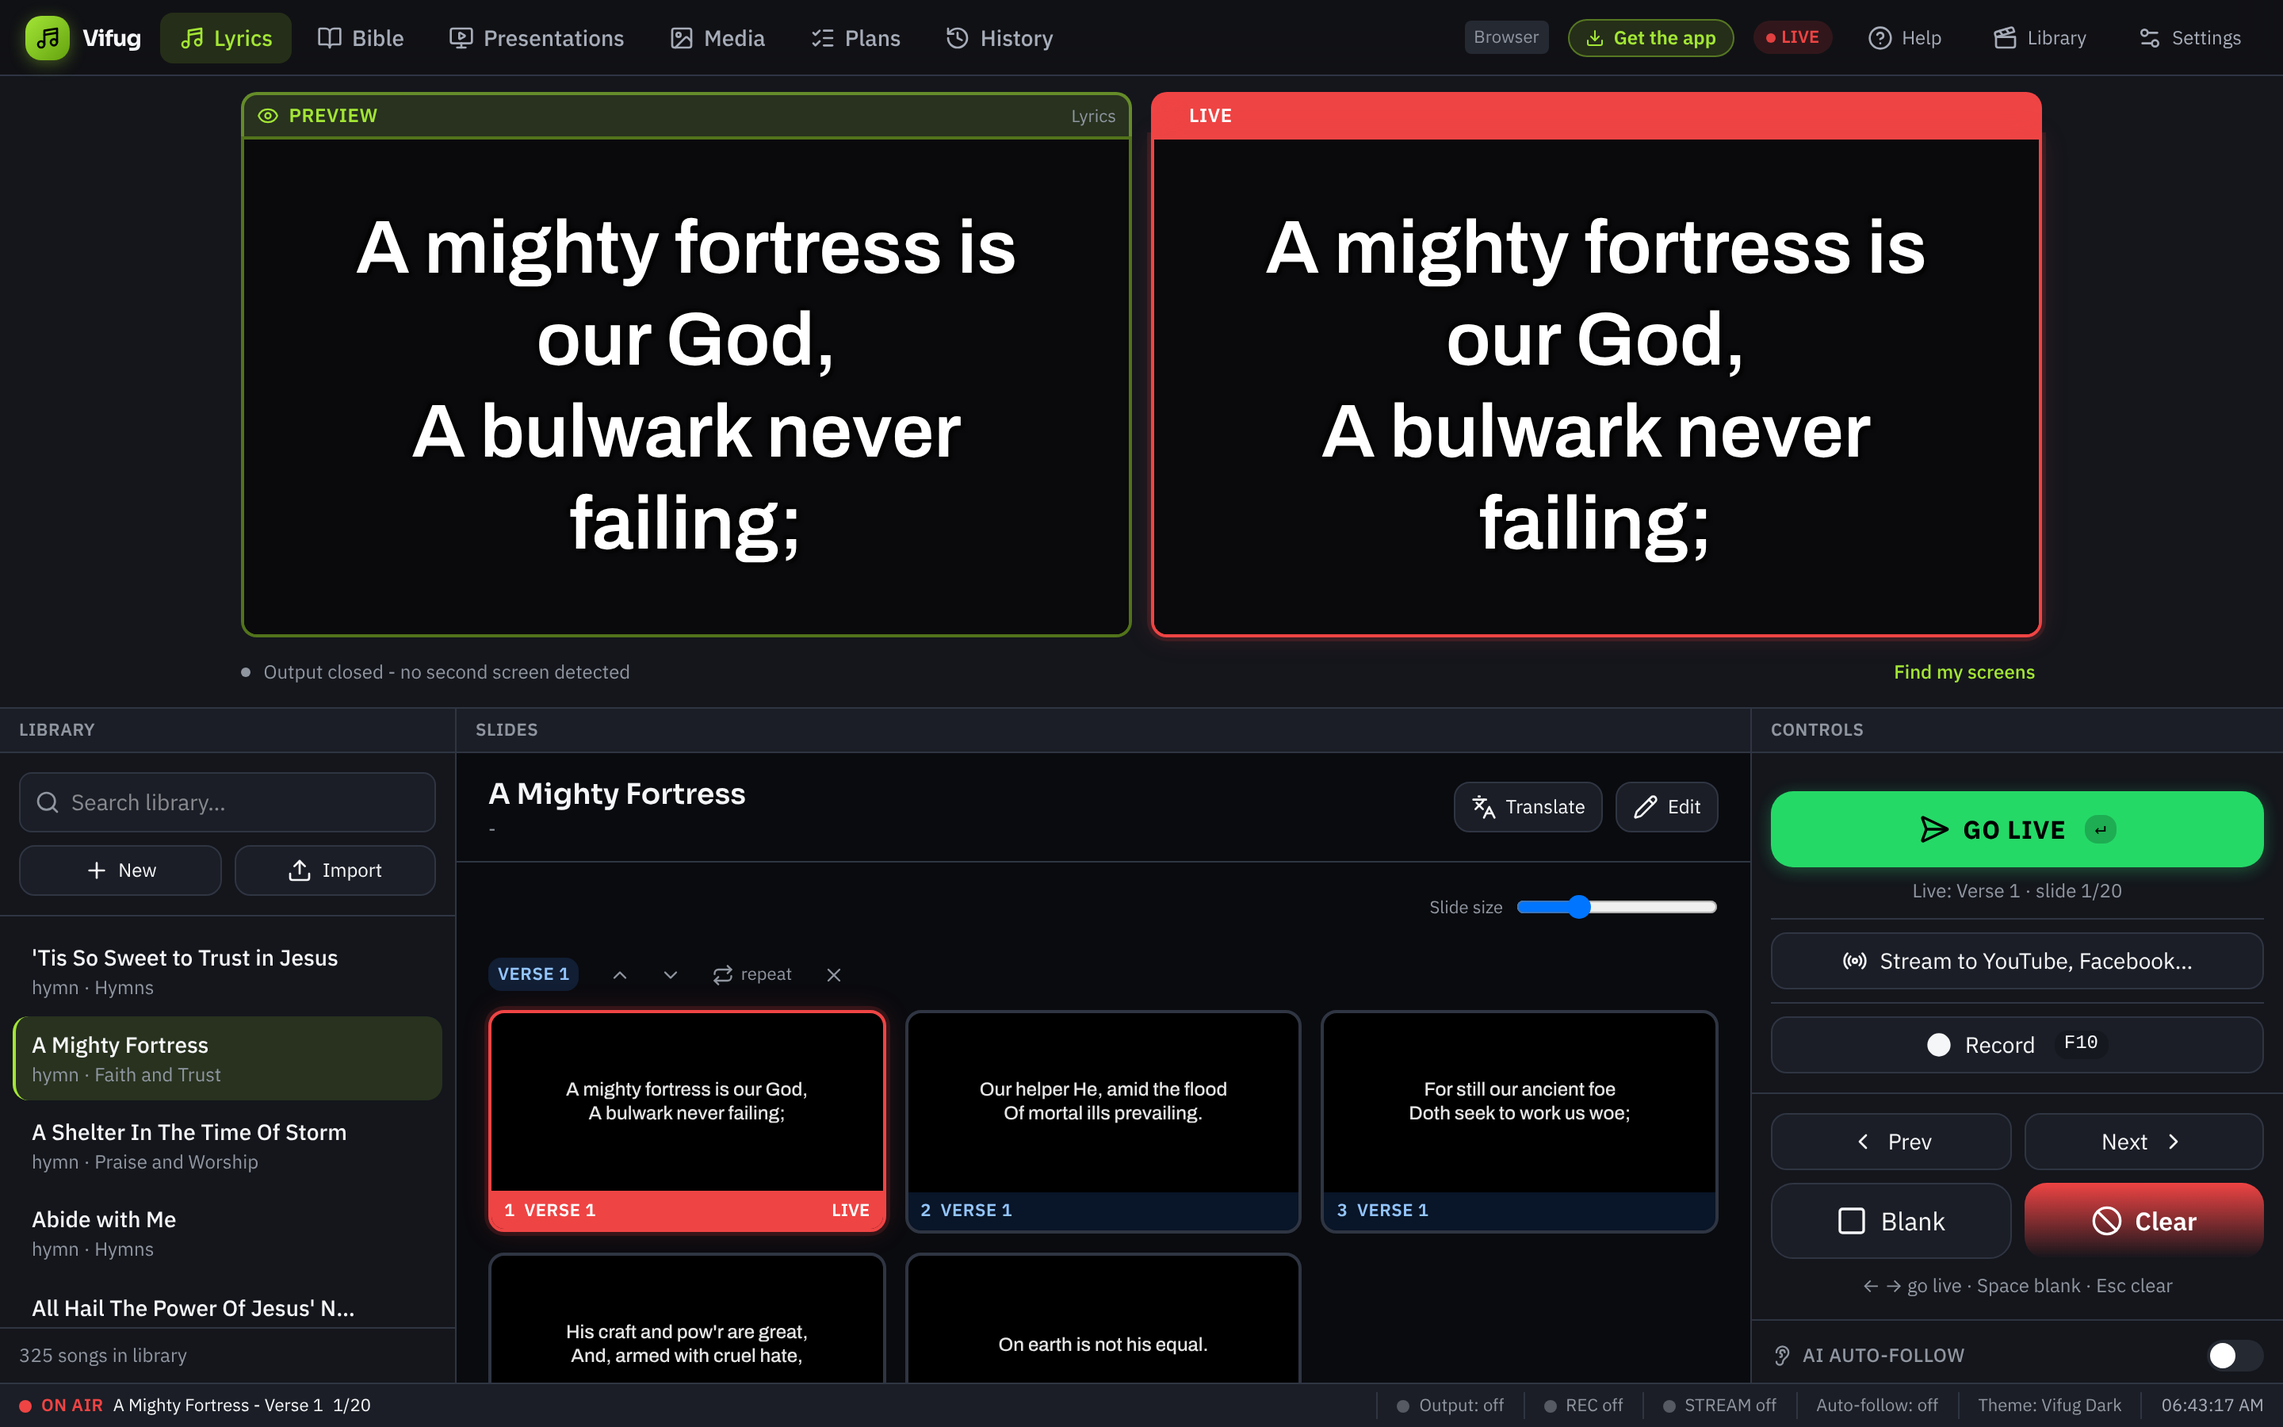
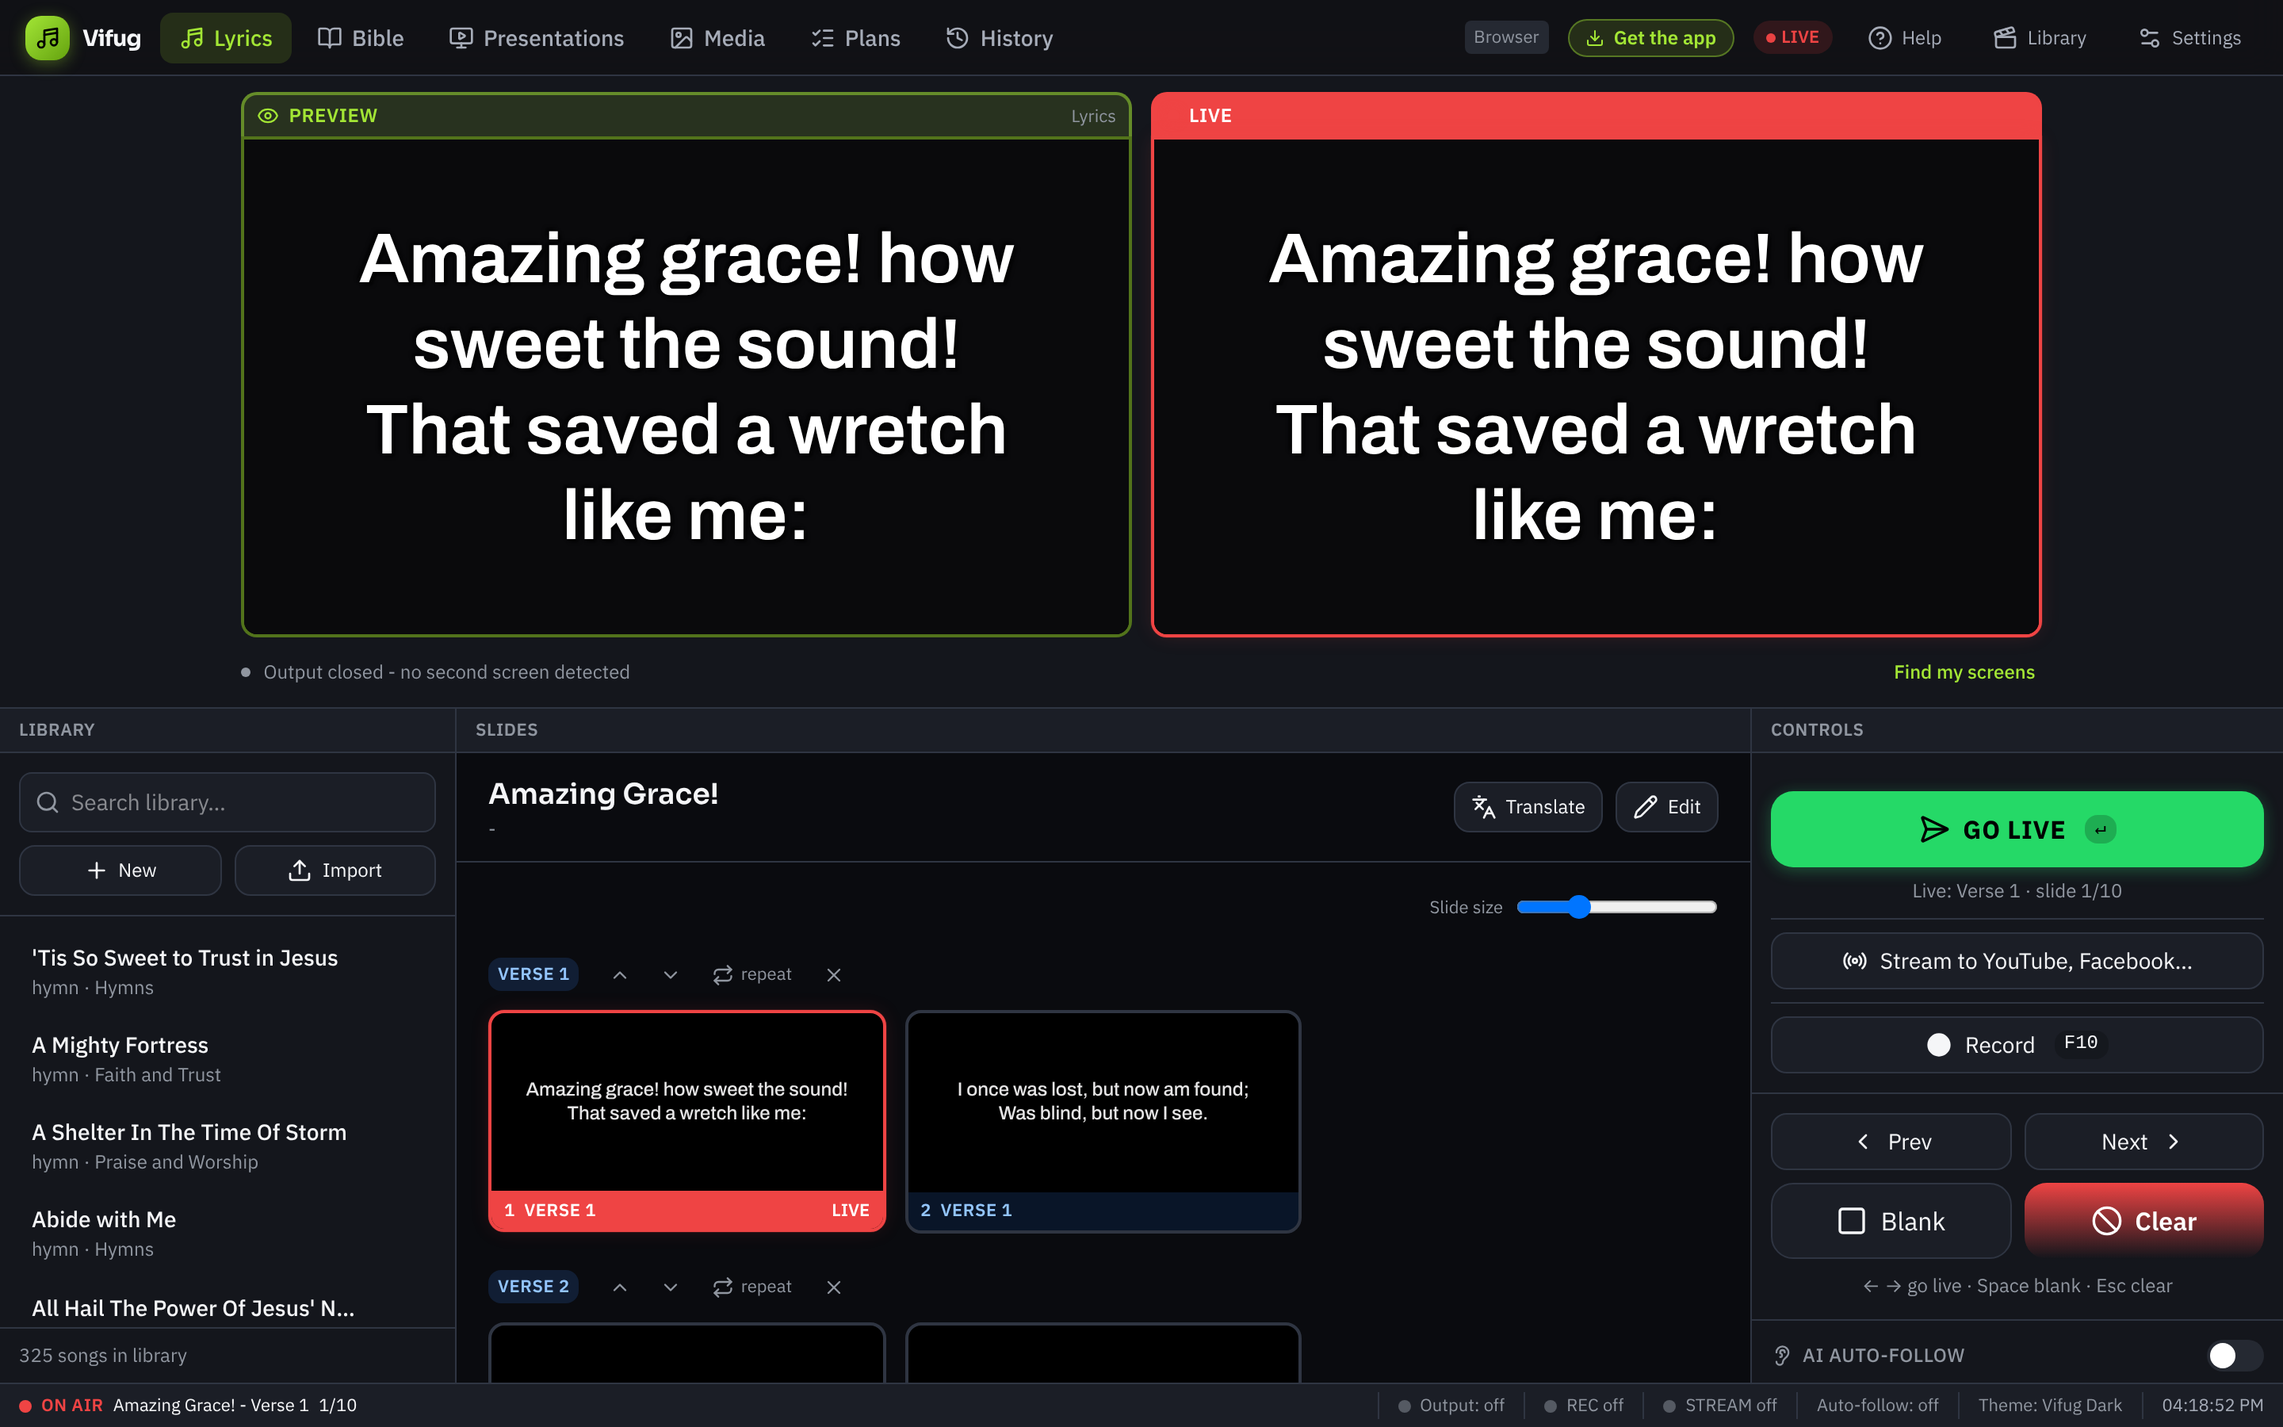
Put the Broadcast layout on the website, and retake the hero shot
A Google AI Overview of Vifug listed four features and described it as
"offline-first church presentation software". Nothing there is wrong, but
it is built from vifug.com, and the site had no mention at all of the
second operator layout that shipped in 1.34.0 - so no summary of Vifug
could include it.

The landing page's tour now shows both shapes, one above the other: the
same song, the same verse live, once in the Vifug layout and once in the
Broadcast one, each with a caption saying which is which. A reader sees
the difference rather than reading a description of it.

The hero screenshot was four releases old, so it was retaken on the
current version. Two things had to be got right that the first attempt
got wrong: the search box has to be cleared after picking the song, or
the shot shows a one-row library and sells nothing; and the slide has to
be clicked by its words, because in the Broadcast layout the Preview pane
is itself a 16:9 element and matched first, which produced a screenshot
with both screens blank and GO LIVE still saying "nothing live yet".

Also updated where machines read rather than people: the layout is now in
the SoftwareApplication featureList, in llms.txt, and as an FAQ entry -
"Can I lay the operator screen out like OBS?", which is the question
somebody would actually type - carried in both the visible page and its
FAQPage structured data, since structured data that is not on the page is
[…]

diff --git a/docs/index.html b/docs/index.html
@@ -58,12 +58,13 @@
     "@type": "CreativeWork",
     "url": "https://vifug.com/guide.html"
   },
-  "softwareVersion": "latest",
+  "softwareVersion": "1.35.0",
   "image": "https://vifug.com/og-image.png",
   "screenshot": "https://vifug.com/img/app-slide-grid.png",
   "keywords": "church presentation software, worship lyrics projection, song lyrics projector software, Bible verse projection, lower thirds, live streaming software for churches, free ProPresenter alternative, free EasyWorship alternative, NDI lyrics output, OBS lyrics overlay",
   "featureList": [
     "Song lyrics library with a Preview to Live workflow",
+    "Two operator screen layouts: a classic three-column one and a Broadcast one laid out like a streaming desk",
     "Offline Bible in 31 English versions plus Yoruba, Hausa, Igbo, Twi and Swahili",
     "Presentations: build slides or import PowerPoint and PDF",
     "Theme designer with text box, fonts, motion, pictures, video and camera layers",
@@ -113,6 +114,11 @@
       "@type": "Question",
       "name": "What is Vifug?",
       "acceptedAnswer": { "@type": "Answer", "text": "Vifug is free presentation software for churches, events, schools and studios. It puts song lyrics, Bible verses, slides, pictures and video on your projector or TV, with a Preview to Live workflow so nothing appears until you send it. It also handles cameras, lower thirds and speaker name bars, and can stream the result to YouTube, Facebook and Twitch. It runs on Windows, macOS and Linux and works without internet." }
+    },
+    {
+      "@type": "Question",
+      "name": "Can I lay the operator screen out like OBS?",
+      "acceptedAnswer": { "@type": "Answer", "text": "Yes. Settings, Layout offers two shapes for the operator's own screen. Vifug, the original, puts the words in the middle with preview and live in a rail down the right. Broadcast puts preview and live across the top at full size and turns the list, the slides and the controls into docks underneath, the way OBS and other streaming desks are laid out. Nothing is missing from either one and the screen changes as you click, with no restart. The choice is remembered per device, so the laptop at the desk and a phone at the back can differ. This is about the operator's screen only - it changes nothing the congregation or the stream sees." }
     },
     {
       "@type": "Question",
@@ -584,6 +590,8 @@
   .shot-bar span { margin-left: 10px; font-size: 12px; color: var(--faint); }
   .shot img { display: block; width: 100%; height: auto; }
   .tour-shot { margin-top: 44px; }
+  .shot-cap { margin-top: 10px; font-size: 13.5px; color: var(--faint); text-align: center; }
+  .shot-cap b { color: var(--dim); font-weight: 600; }
   .tour-points { display: grid; grid-template-columns: repeat(3, 1fr); gap: 16px; margin-top: 22px; }
   .tour-points div { border: 1px solid var(--line); border-radius: 14px; padding: 18px; background: var(--raise); }
   .tour-points b { display: block; font-family: var(--font-display); font-size: 15px; margin-bottom: 5px; color: var(--paper); }
@@ -737,13 +745,20 @@
     <div class="band-head center">
       <span class="eyebrow" data-aos="fade-up">See it in action</span>
       <h2 data-aos="fade-up" data-aos-delay="60">Your whole service in one window</h2>
-      <p data-aos="fade-up" data-aos-delay="120">Songs on the left, slides in the middle, Preview and Live on the right. Click a slide to cue it, press Enter to send it to the room.</p>
+      <p data-aos="fade-up" data-aos-delay="120">Click a slide to cue it, press Enter to send it to the room. Lay the screen out whichever way suits you - the classic three columns, or a broadcast desk with the two screens across the top.</p>
     </div>
     <div class="tour-shot">
       <div class="shot" data-aos="fade-up">
         <div class="shot-bar"><i></i><i></i><i></i><span>Vifug - Amazing Grace</span></div>
         <img src="img/app-slide-grid.png" width="2880" height="1800" alt="The Vifug operator window: song library, slide thumbnails with coloured label bars, Preview and Live pictures, and a status bar along the bottom" loading="lazy" />
       </div>
+      <p class="shot-cap"><b>The Vifug layout.</b> Words in the middle, Preview and Live down the right.</p>
+
+      <div class="shot" data-aos="fade-up" data-aos-delay="80" style="margin-top:36px">
+        <div class="shot-bar"><i></i><i></i><i></i><span>Vifug - Broadcast layout</span></div>
+        <img src="img/app-layout-broadcast.png" width="2880" height="1800" alt="The same song in the Broadcast layout: Preview and Live across the top at full size, with Library, Slides and Controls docks underneath" loading="lazy" />
+      </div>
+      <p class="shot-cap"><b>The Broadcast layout.</b> Preview and Live across the top at full size, the way a streaming desk is laid out - the list, the slides and the controls become docks below. Same service, same controls; switch in Settings, no restart.</p>
     </div>
     <div class="tour-video" data-aos="fade-up">
       <p class="tour-video-title">Watch it work <span>49 seconds · no sound, captions on screen</span></p>
@@ -861,6 +876,7 @@
     <div class="features collapsed" id="feature-grid">
       <div class="feat" data-aos="fade-up"><div class="ic"><svg viewBox="0 0 24 24"><circle cx="12" cy="12" r="2"/><path d="M16.24 7.76a6 6 0 0 1 0 8.49M7.76 16.24a6 6 0 0 1 0-8.49M19.07 4.93a10 10 0 0 1 0 14.14M4.93 19.07a10 10 0 0 1 0-14.14"/></svg></div><h3>Go live from the app</h3><p>Stream the live output to YouTube, Facebook, Twitch or any RTMP server - several at once - with one button. No OBS needed. Desktop app.</p></div>
       <div class="feat" data-aos="fade-up"><div class="ic"><svg viewBox="0 0 24 24"><polygon points="13 2 3 14 12 14 11 22 21 10 12 10 13 2"/></svg></div><h3>Preview → Live stage</h3><p>Cue the next slide privately, then send it live with Enter. Arrows to move, Space to blank, Esc to clear.</p></div>
+      <div class="feat" data-aos="fade-up" data-aos-delay="70"><div class="ic"><svg viewBox="0 0 24 24"><rect x="3" y="3" width="18" height="18" rx="2"/><path d="M9 3v18M15 3v18"/></svg></div><h3>Two operator layouts</h3><p>Arrange your own screen the way you work. <b>Vifug</b> puts the words in the middle with preview and live down the side; <b>Broadcast</b> puts preview and live across the top at full size, the way a streaming desk is laid out, with the list, the slides and the controls as docks below. Switch in Settings, no restart, and it is remembered on that device.</p></div>
       <div class="feat" data-aos="fade-up" data-aos-delay="70"><div class="ic"><svg viewBox="0 0 24 24"><path d="M2 3h6a4 4 0 0 1 4 4v14a3 3 0 0 0-3-3H2z"/><path d="M22 3h-6a4 4 0 0 0-4 4v14a3 3 0 0 1 3-3h7z"/></svg></div><h3>Offline Bible engine</h3><p>31 English versions (KJV, NIV, ESV, NLT, NASB, The Message and more) plus Yoruba, Hausa, Igbo, Twi and Swahili - reference jump (“John 3:16”) and full-text search, with every book held on the machine.</p></div>
       <div class="feat" data-aos="fade-up" data-aos-delay="140"><div class="ic"><svg viewBox="0 0 24 24"><rect x="2" y="3" width="20" height="14" rx="2"/><path d="M8 21h8M12 17v4"/></svg></div><h3>Slides &amp; PowerPoint import</h3><p>Build decks in the app with a live preview beside each slide, size individual words for emphasis, or import a .pptx or PDF - it keeps the deck's own backgrounds and text colours instead of flattening everything to plain text.</p></div>
       <div class="feat" data-aos="fade-up"><div class="ic"><svg viewBox="0 0 24 24"><path d="M9 11H3v9h6v-9ZM21 6h-6v14h6V6ZM15 3H9v18h6V3Z"/></svg></div><h3>Service plans</h3><p>Line up the whole morning ahead of time - songs, scripture, section headers and blanks in the order you will actually use them, ready to run down on Sunday.</p></div>
@@ -970,6 +986,7 @@
     </div>
     <div class="faq" data-aos="fade-up" data-aos-delay="120">
       <details open><summary>What is Vifug?</summary><div class="a">Vifug is free presentation software for churches, events, schools and studios. It puts song lyrics, Bible verses, slides, pictures and video on your projector or TV, with a Preview to Live workflow so nothing appears until you send it. It also handles cameras, lower thirds and speaker name bars, and can stream the result to YouTube, Facebook and Twitch. It runs on Windows, macOS and Linux and works without internet.</div></details>
+      <details><summary>Can I lay the operator screen out like OBS?</summary><div class="a">Yes. Settings, Layout offers two shapes for the operator's own screen. Vifug, the original, puts the words in the middle with preview and live in a rail down the right. Broadcast puts preview and live across the top at full size and turns the list, the slides and the controls into docks underneath, the way OBS and other streaming desks are laid out. Nothing is missing from either one and the screen changes as you click, with no restart. The choice is remembered per device, so the laptop at the desk and a phone at the back can differ. This is about the operator's screen only - it changes nothing the congregation or the stream sees.</div></details>
       <details><summary>Is Vifug really free?</summary><div class="a">Yes - free to download, install and use on as many machines as your church needs. No licence fee, no per-seat cost, no watermark and no subscription. Anything you make with it - your songs, slides and recordings - is entirely yours, including for services you stream or charge admission to.</div></details>
       <details><summary>Can I modify it or build my own version?</summary><div class="a">Vifug is free to <em>use</em>, but it is not open source - the software remains the property of its author, and copying, modifying or redistributing it needs written permission. That permission is often given freely for reasonable requests, so <a href="#contact">just ask</a>.</div></details>
       <details><summary>Can I use Vifug outside church?</summary><div class="a">Yes. On first launch you choose what it is for: Church, Media &amp; entertainment, or Presentations only. Outside church the Bible and the hymn library are hidden and you start with a few public-domain songs, with the same projector, screens, capture and streaming tools. Nothing is deleted, so you can switch back to Church in Settings any time.</div></details>

diff --git a/packages/web/src/web/pages/index.tsx b/packages/web/src/web/pages/index.tsx
@@ -1321,8 +1321,16 @@ export default function OperatorPage() {
           ))}
         </ul>
       </div>
+      {/* This counts what is ON SCREEN, which is the whole library only when
+          nothing is typed in the search box. Saying "3 songs in library" to
+          someone who has just searched for "grace" is simply false - and it
+          said "1 songs" either way. */}
       <div className="border-t border-[var(--v-border)] px-3 py-2 text-[12px] text-[var(--v-text-faint)]">
-        {songs.data?.length ?? 0} songs in library
+        {(() => {
+          const n = songs.data?.length ?? 0;
+          const word = n === 1 ? "song" : "songs";
+          return search.trim() ? `${n} ${word} found` : `${n} ${word} in library`;
+        })()}
       </div>
     </aside>
   );

diff --git a/CHANGELOG.md b/CHANGELOG.md
@@ -7,6 +7,9 @@ GitHub Release with Windows, macOS and Linux artifacts.
 
 ## [1.35.0] — 2026-11-17
 
+- DOCS: **the guide now covers the two operator screen layouts** (new chapter 4), and the landing page shows both with a screenshot of each - the same song live, once in the Vifug layout and once in the Broadcast one. The site's structured data, its FAQ and llms.txt mention the Broadcast layout too, so search engines and AI assistants describing Vifug have it to work from. The hero screenshot was also retaken on the current version.
+- FIX: the song library's footer said "1 songs in library" after a search that matched one song - wrong number as well as wrong grammar, since it was counting what the search had left on screen, not the library. It now says "1 song found" while searching and "325 songs in library" when not.
+
 - DOCS: **seven more videos in the guide**, bringing it to ten: add a song, change the background for lyrics, Bible and presentations, add sound, show a camera on screen, control Vifug from a phone, go live to YouTube and Facebook, and AI auto-follow. Each sits at the top of its chapter. They have no sound and a caption for every step. The streaming and auto-follow videos show the set-up only, because they were recorded in the browser version (streaming needs the desktop app; auto-follow had no speech key or internet), and say so.
 - FIX: the AI auto-follow panel said to "set DEEPGRAM_API_KEY in the server env" when there was no speech key, which a volunteer cannot do. It now says to add the Deepgram key in Settings → AI auto-follow, or switch to the on-this-machine engine there.
 - NEW: **a "Support Vifug" section on the About page** (Settings → About). It lists the same six ways to help as the website - give once, give monthly, sponsor as a church or business, give your time or skills, spread the word, or something else - with a button that opens the support form on vifug.com and the contact address. Nothing is charged from inside the app.
